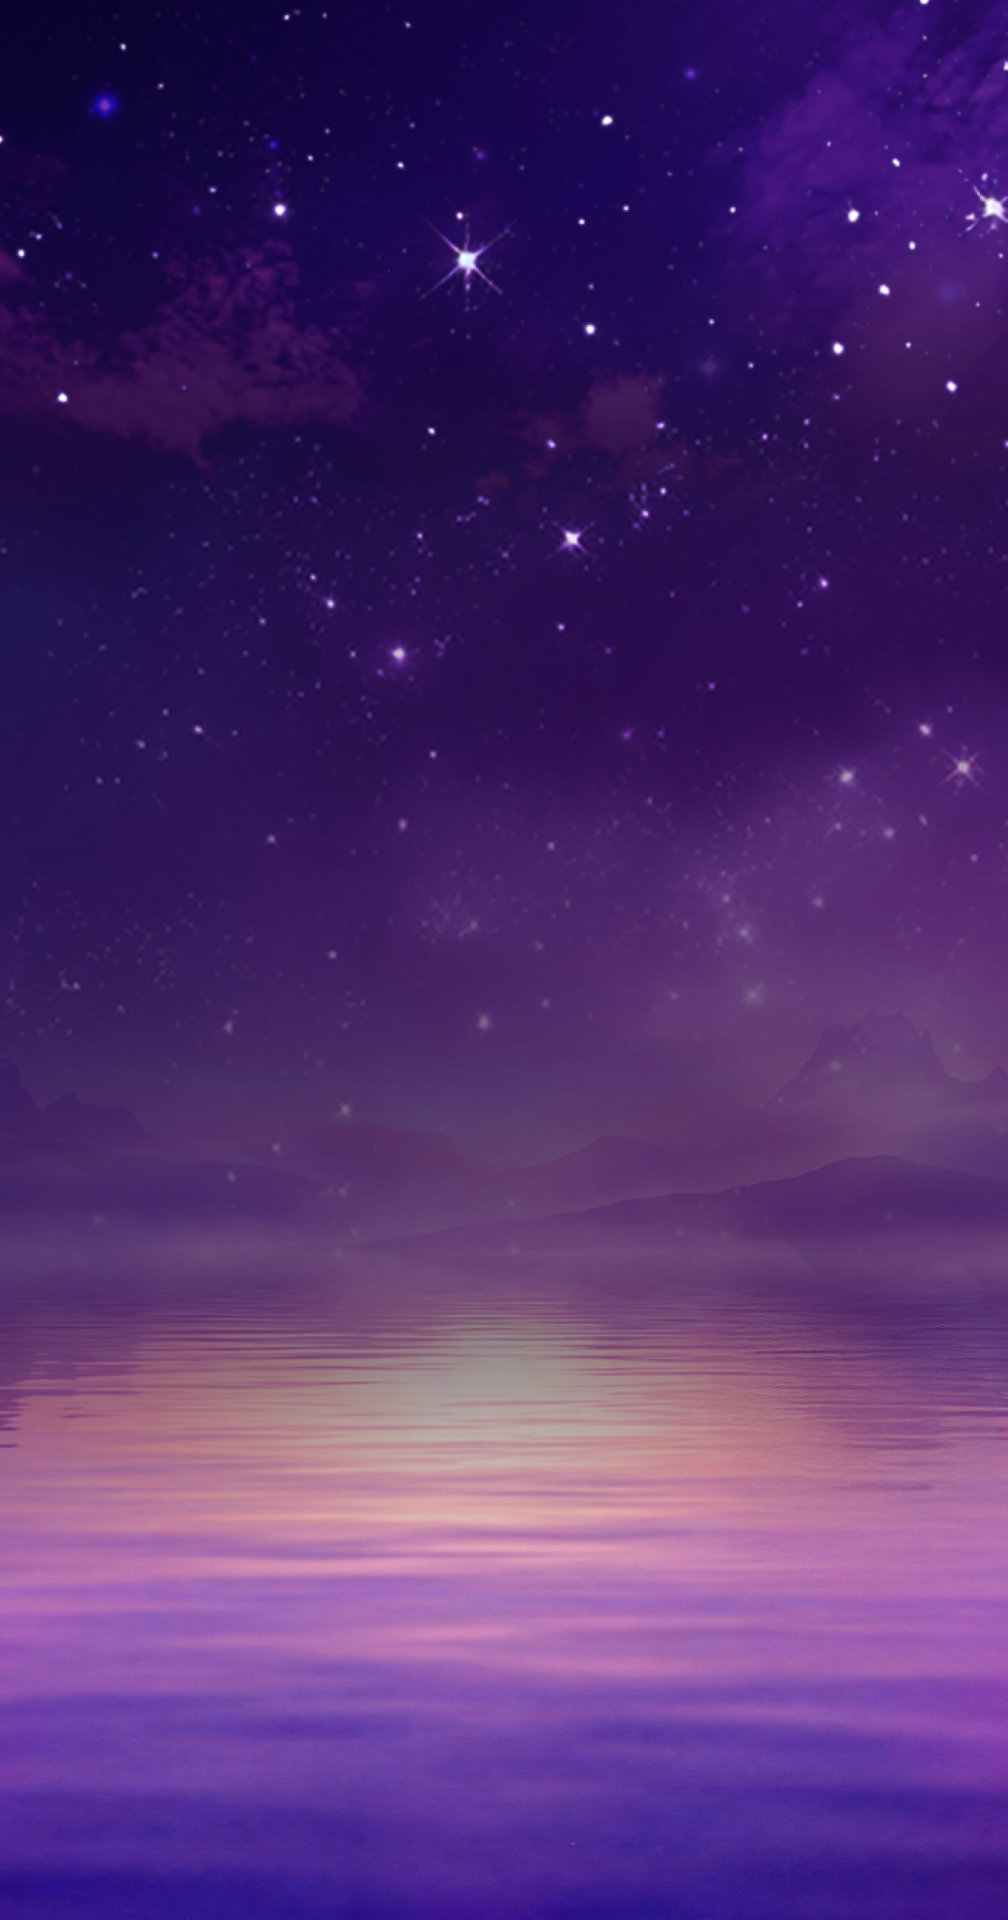
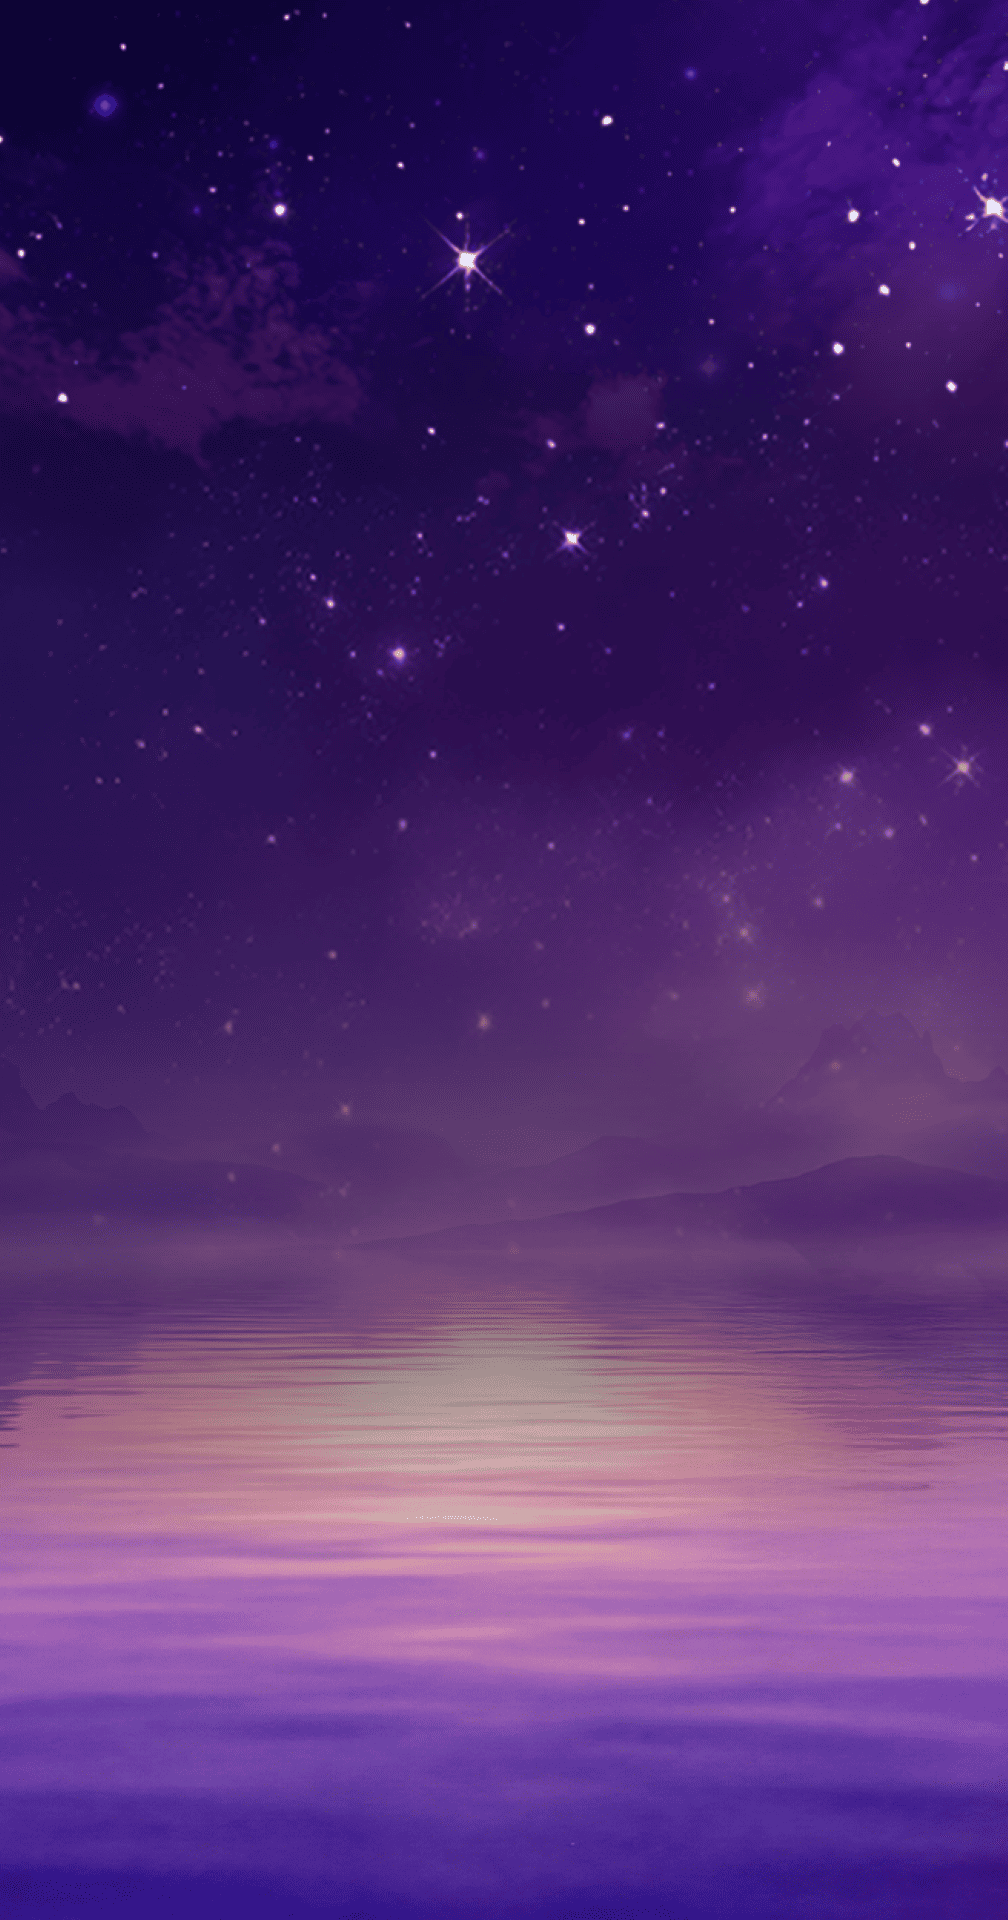
fix: animation

Changed region(s): [[0.9226, 0.7188, 1.0, 0.75], [0.0923, 0.0312, 0.123, 0.0625]]

diff --git a/app/page.tsx b/app/page.tsx
@@ -12,10 +12,14 @@ import { NS, NS1 } from "./data/index";
 
 export default function Home() {
   return (
-    <div className="min-h-screen bg-white">
-      <div className="max-w-[420px] overflow-x-hidden pb-[400px] pt-1 h-screen w-full mx-auto bg-[url('/bg-all.png')] bg-contain bg-top bg-fixed overflow-y-auto">
+    <div className="min-h-screen bg-white relative">
+      <img
+        src="/bg-all.png"
+        className="absolute top-0 left-0 w-full h-full object-cover"
+      />
+      <div className="max-w-[420px] absolute inset-0 overflow-x-hidden pb-[400px] pt-1 h-screen w-full mx-auto bg-contain bg-top bg-fixed overflow-y-auto">
         <Navbar />
-        <div className="flex items-center flex-col justify-center pt-12">
+        <div className="flex items-center flex-col justify-center pt-12 min-h-[480px]">
           <motion.div
             initial={{ y: -30, opacity: 0.1 }}
             animate={{ y: 0, opacity: 1 }}